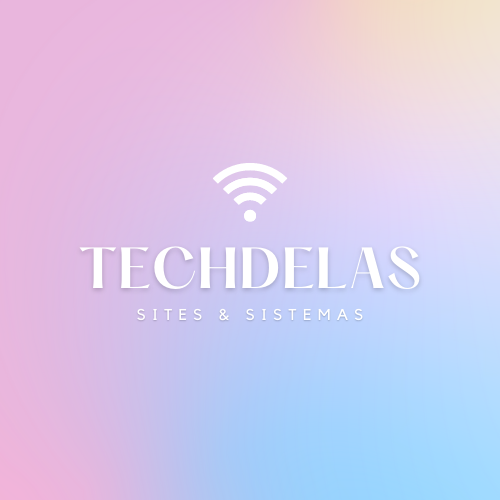
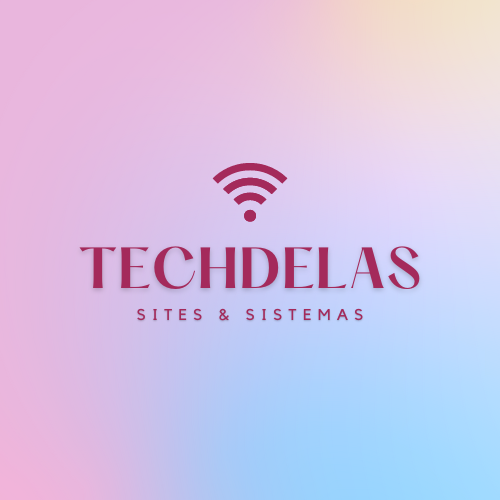
Add files via upload

Changed region(s): [[0.15, 0.48, 0.72, 0.66], [0.42, 0.3, 0.57, 0.45], [0.69, 0.48, 0.84, 0.6]]

diff --git a/css/style.css b/css/style.css
@@ -19,7 +19,7 @@ body{
 }
 .dados{
     text-align: center;
-    color: white;
+    color: #A42A5B;
 }
 
 .dados h1{
